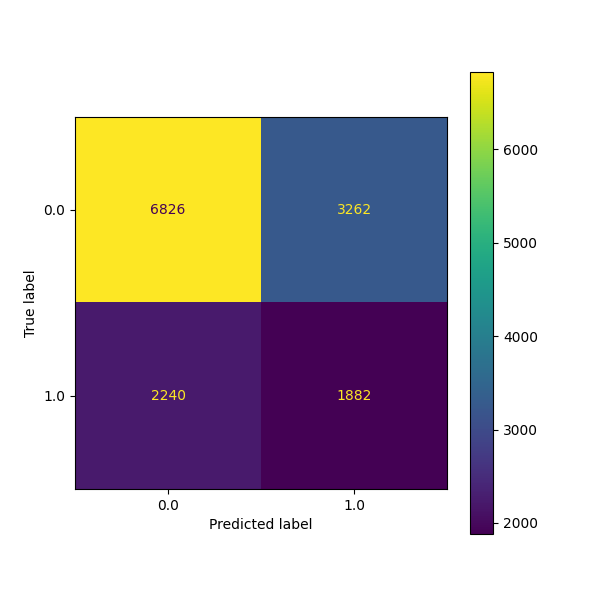
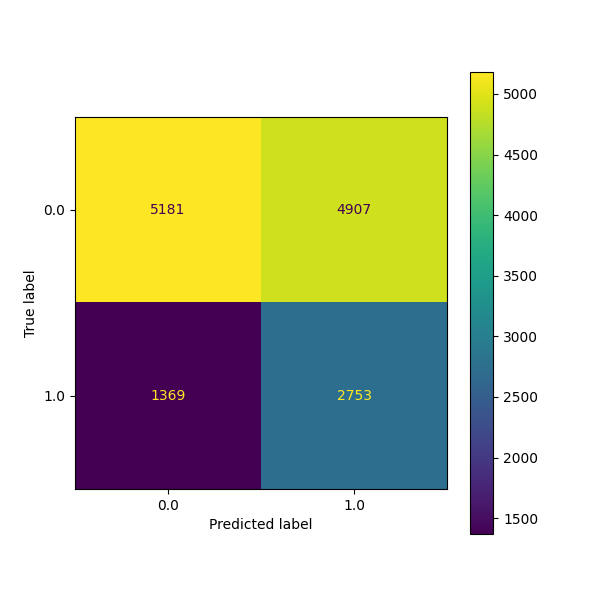
saving my current changes

diff --git a/src/models/train_nn.py b/src/models/train_nn.py
@@ -43,6 +43,10 @@ with open(config_path, "r") as f:
     config = yaml.safe_load(f)
 logger = optuna_logger.logger
 
+import logging
+mlflow_logger = logging.getLogger("mlflow")
+mlflow_logger.setLevel(logging.WARNING)
+
 class NeuralNetworkTrainer():
     def __init__(self, X, y, config, device, MODEL_DIR=MODEL_DIR):
         os.makedirs(MODEL_DIR, exist_ok=True)
@@ -81,8 +85,15 @@ class NeuralNetworkTrainer():
     def evaluate_model(self, X_test_tensor, y_test_tensor):
         return evaluate_model(self.model, X_test_tensor, y_test_tensor, self.device)
 
-    
     def get_prediction_threshold(self, y_true, y_probs):
+        """Find optimal threshold for binary classification"""
+        if isinstance(y_probs, torch.Tensor):
+            y_probs = y_probs.cpu().numpy()
+        
+        # Ensure y_probs is 1D array
+        if len(y_probs.shape) > 1:
+            y_probs = y_probs.flatten()
+        
         best_thresh, best_f1 = 0.5, 0
         for t in [i * 0.01 for i in range(1, 100)]:
             preds = (y_probs >= t).astype(int)
@@ -91,6 +102,7 @@ class NeuralNetworkTrainer():
                 best_f1 = score
                 best_thresh = t
         return best_thresh, best_f1
+    
     def train_and_tune(self):
         # Run Optuna optimization
         self.logger.info("Starting hyperparameter optimization with Optuna...")
@@ -157,8 +169,15 @@ class NeuralNetworkTrainer():
                 plt.savefig("images/confusion_matrix.png")
                 mlflow.log_artifact("images/confusion_matrix.png")
                 # Predict probabilities and determine best threshold
-                self.logger.info(f"Shape of X_test: {X_test.shape}\nShape of model output: {self.model.predict_proba(X_test).shape}")
-                y_probs = self.model.predict_proba(X_test).view(1, -1)[1, :].item()
+                
+                self.logger.info(f"Shape of X_test: {X_test.shape}")
+                y_probs = self.model.predict_proba(X_test)
+
+                # Ensure y_probs is 1D array
+                if len(y_probs.shape) > 1:
+                    y_probs = y_probs.flatten()
+
+                self.logger.info(f"Shape of model output: {y_probs.shape}")
                 best_threshold, best_f1 = self.get_prediction_threshold(y_test, y_probs)
                 y_pred = (y_probs >= best_threshold).astype(int)
 
@@ -210,7 +229,9 @@ class NeuralNetworkTrainer():
                 y_true_global, y_pred_global, average="binary")
             self.logger.info(f"Global F1 across all folds: {global_f1:.4f}")
             mlflow.log_metric("global_f1", global_f1)
-            y_probs_full = self.model.predict_proba(X)[:, 1]
+            y_probs_full = self.model.predict_proba(X)
+            if len(y_probs_full.shape) > 1:
+                y_probs_full = y_probs_full.flatten()
             best_threshold, best_f1 = self.get_prediction_threshold(y, y_probs_full)
             y_pred_full = (y_probs_full >= best_threshold).astype(int)
 

diff --git a/src/models/tuning/optuna_nn.py b/src/models/tuning/optuna_nn.py
@@ -11,7 +11,7 @@ from optuna.integration import MLflowCallback
 import logging
 from sklearn.impute import SimpleImputer
 import os
-from src.models.train_NN.neural_net import ChurnNN
+from src.models.network.neural_net import ChurnNN
 from src.models.utils.train_util import train_model
 from src.models.utils.eval_nn import evaluate_model
 
@@ -29,15 +29,24 @@ def setup_logger(log_path):
     logger = logging.getLogger("OptunaStudy")
     if logger.handlers:
         return logger
+    
     os.makedirs(os.path.dirname(log_path), exist_ok=True)
     handler = logging.FileHandler(log_path)
     handler.setFormatter(logging.Formatter("%(asctime)s - %(levelname)s - %(message)s"))
     logger.addHandler(handler)
-    logger.addHandler(logging.StreamHandler())  # Console
+    
+    # Console handler with simpler format
+    console_handler = logging.StreamHandler()
+    console_handler.setFormatter(logging.Formatter("%(levelname)s - %(message)s"))
+    logger.addHandler(console_handler)
+    
     logger.setLevel(logging.INFO)
+    
+    # Set other loggers to WARNING
+    logging.getLogger("mlflow").setLevel(logging.WARNING)
+    logging.getLogger("urllib3").setLevel(logging.WARNING)
+    
     return logger
-
-logger = setup_logger(log_path=log_path)
 
 # === Optuna Logger ===
 class OptunaLogger:
@@ -52,7 +61,7 @@ class OptunaLogger:
             self.logger.error(f"[Trial {trial.number}] Failed")
         
 
-optuna_logger = OptunaLogger(logger)
+optuna_logger = OptunaLogger(setup_logger(log_path))
 
 # --- Objective function ---
 def objective(trial, X, y, device=device):

diff --git a/src/models/train_rf.py b/src/models/train_rf.py
@@ -196,11 +196,11 @@ def evaluate_models(X, y, train_config):
             mlflow.log_metrics(avg_metrics)
 
             # Storing best models passing thresholds
-            if all(avg_metrics.get(m, 0) >= t for m, t in thresholds.items()):
-                best_models[name] = (best_model, avg_metrics)
-                logger.info(f"Model {name} passed thresholds: {avg_metrics}")
-            else:
-                logger.warning(f"Model {name} did not meet thresholds: {avg_metrics}")
+            #if all(avg_metrics.get(m, 0) >= t for m, t in thresholds.items()):
+            best_models[name] = (best_model, avg_metrics)
+            #    logger.info(f"Model {name} passed thresholds: {avg_metrics}")
+            #else:
+            #logger.warning(f"Model {name} did not meet thresholds: {avg_metrics}")
 
             run_id = mlflow.active_run().info.run_id
 
@@ -215,7 +215,6 @@ def evaluate_models(X, y, train_config):
 
 # Running evaluation
 best_model_name, best_model, best_metrics, run_id = evaluate_models(X, y, train_config)
-
 # Saving & logging best model
 if best_model_name:
     timestamp = datetime.now().strftime("%Y%m%d_%H%M%S")
